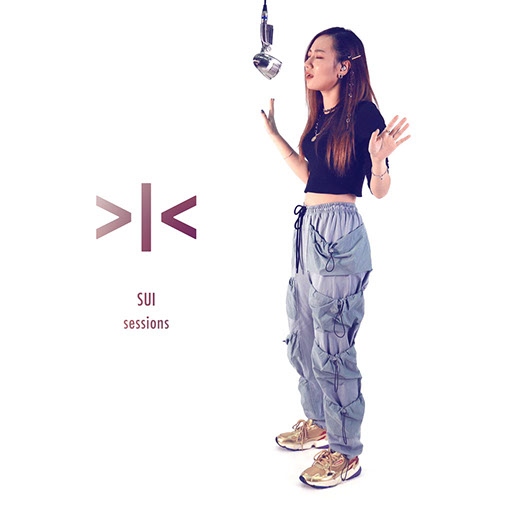
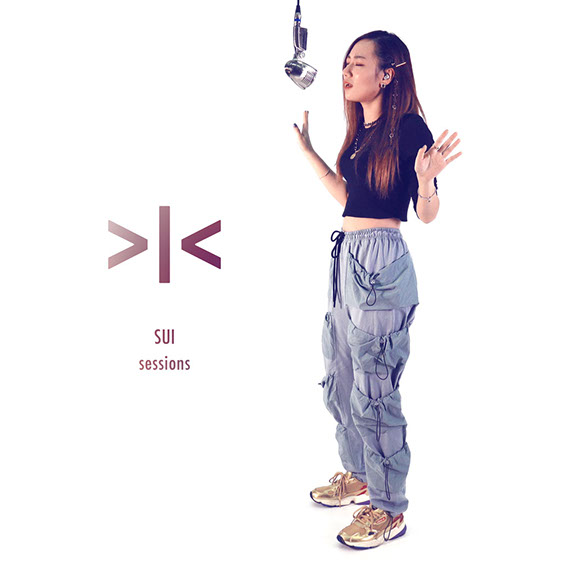
suisuisui

diff --git a/suisuisui/css/01.css b/suisuisui/css/01.css
@@ -1,1 +1,1 @@
-.version._01{color:#000018;background-color:#98FC78;}#muse_css_mq{background-color:#FFFFFF;}#page{z-index:1;width:800px;min-height:3238px;background-image:none;border-width:0px;border-color:#000000;background-color:transparent;padding-bottom:62px;margin-left:auto;margin-right:auto;}#u185{z-index:2;min-height:3300px;background-color:#000000;}#u185_align_to_page{margin-left:auto;margin-right:auto;position:relative;width:800px;padding-bottom:996px;}#u183{z-index:3;width:800px;background-color:transparent;position:relative;}#u555{z-index:7;width:16px;background-color:transparent;left:392px;position:relative;}.js body{visibility:hidden;}.js body.initialized{visibility:visible;}#u185-bw{z-index:2;min-height:3300px;}.css_verticalspacer .verticalspacer{height:calc(100vh - 3361px);}#u179{z-index:5;width:512px;background-color:transparent;position:relative;margin-right:-10000px;margin-top:-746px;left:144px;}.html{background-color:#000000;}body{position:relative;min-width:800px;}.verticalspacer{min-height:1px;}
+.version._01{color:#0000E6;background-color:#7A5388;}#muse_css_mq{background-color:#FFFFFF;}#page{z-index:1;width:800px;min-height:3238px;background-image:none;border-width:0px;border-color:#000000;background-color:transparent;padding-bottom:62px;margin-left:auto;margin-right:auto;}#u185{z-index:2;min-height:3300px;background-color:#000000;}#u185_align_to_page{margin-left:auto;margin-right:auto;position:relative;width:800px;padding-bottom:996px;}#u183{z-index:3;width:800px;background-color:transparent;position:relative;}#u555{z-index:7;width:16px;background-color:transparent;left:392px;position:relative;}.js body{visibility:hidden;}.js body.initialized{visibility:visible;}#u185-bw{z-index:2;min-height:3300px;}.css_verticalspacer .verticalspacer{height:calc(100vh - 3361px);}#u179{z-index:5;width:576px;background-color:transparent;position:relative;margin-right:-10000px;margin-top:-746px;left:112px;}.html{background-color:#000000;}body{position:relative;min-width:800px;}.verticalspacer{min-height:1px;}

diff --git a/suisuisui/01.html b/suisuisui/01.html
@@ -17,7 +17,7 @@ if(typeof Muse == "undefined") window.Muse = {}; window.Muse.assets = {"required
   <title>SUI</title>
   <!-- CSS -->
   <link rel="stylesheet" type="text/css" href="css/site_global.css?crc=444006867"/>
-  <link rel="stylesheet" type="text/css" href="css/01.css?crc=412679288" id="pagesheet"/>
+  <link rel="stylesheet" type="text/css" href="css/01.css?crc=3866776456" id="pagesheet"/>
    </head>
  <body>
 
@@ -36,7 +36,7 @@ if(typeof Muse == "undefined") window.Muse = {}; window.Muse.assets = {"required
    </div>
    <div class="verticalspacer" data-offset-top="3300" data-content-above-spacer="3300" data-content-below-spacer="61"></div>
    <div class="clip_frame grpelem" id="u179"><!-- image -->
-    <img class="block" id="u179_img" src="images/01.jpg?crc=3767537243" data-hidpi-src="images/01_2x.jpg?crc=148343776" alt="" width="512" height="512"/>
+    <img class="block" id="u179_img" src="images/01.jpg?crc=133634821" alt="" width="576" height="576"/>
    </div>
   </div>
   <!-- Other scripts -->
